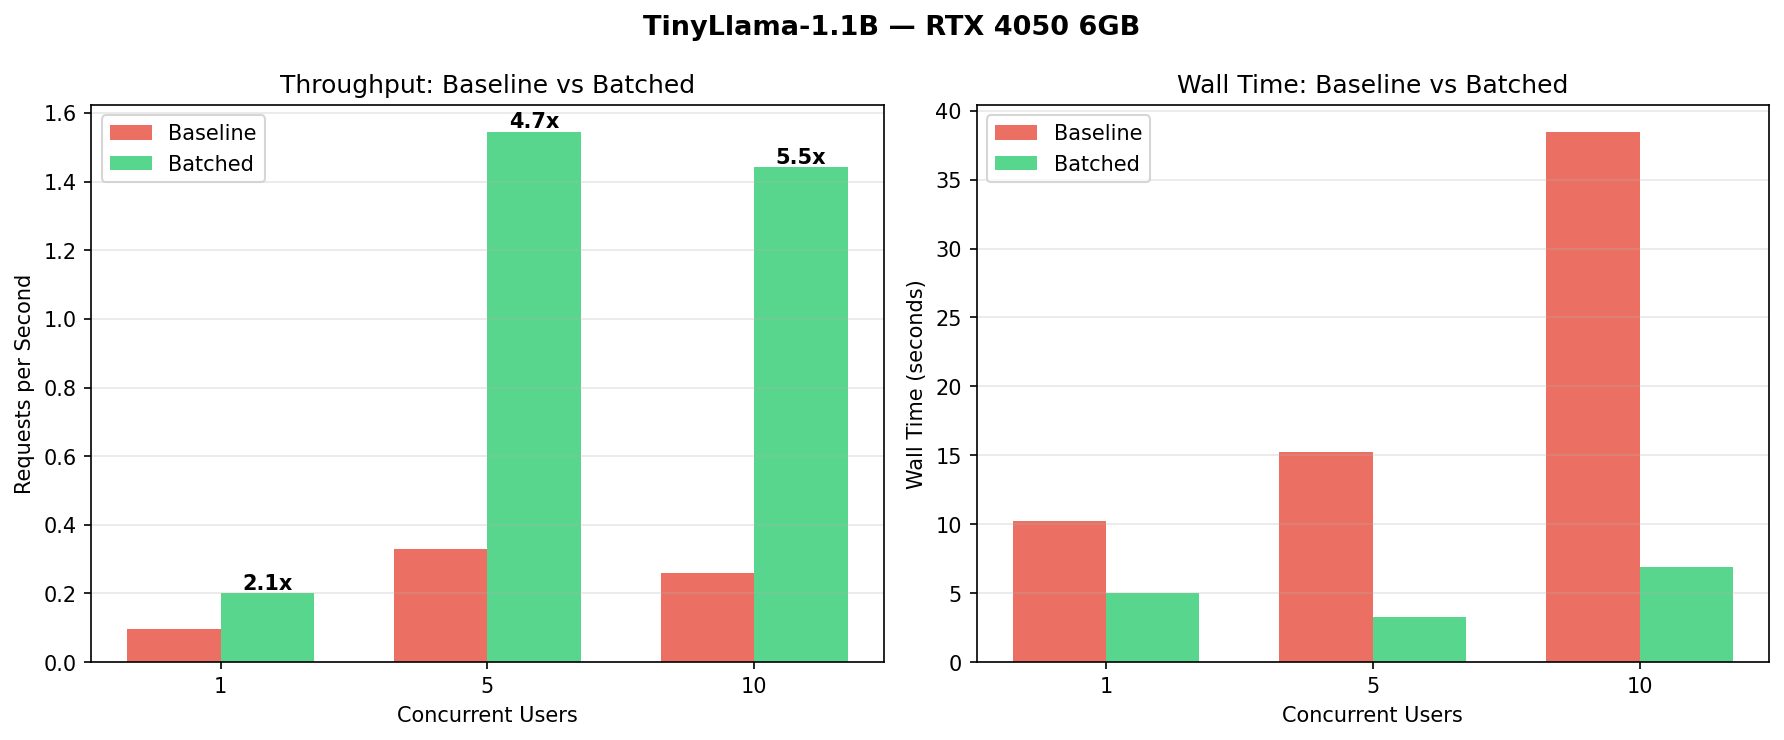
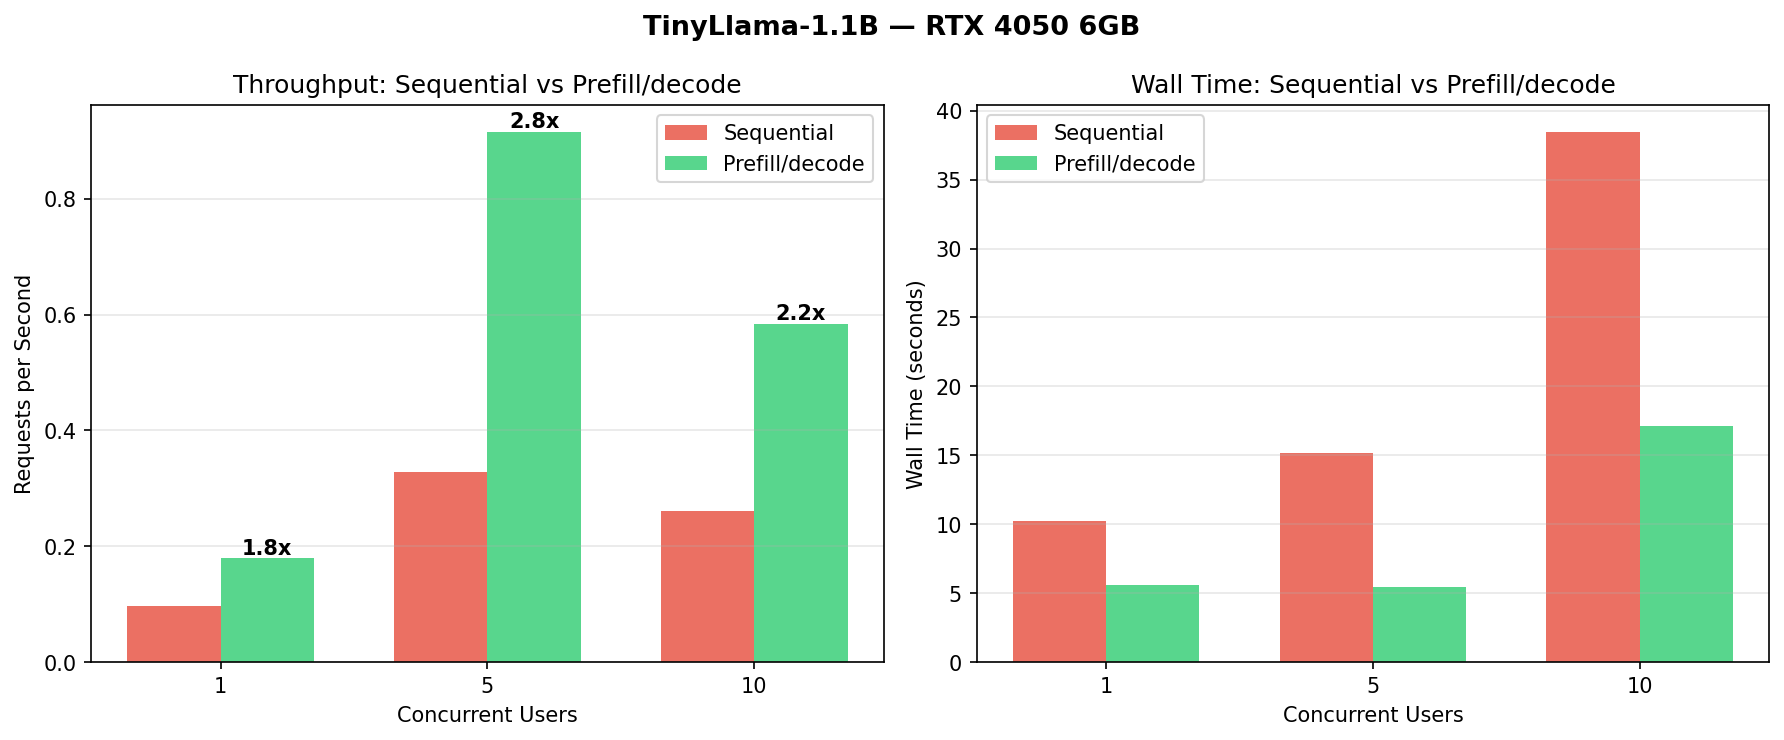
Baseline Image

diff --git a/benchmarks/plot_benchmarks.py b/benchmarks/plot_benchmarks.py
@@ -2,11 +2,14 @@ from pathlib import Path
 import matplotlib.pyplot as plt
 import numpy as np
 
+# Sequential baseline (2026-04-20) vs prefill/decode (2026-10-03).
+# Both columns are in benchmarks/baseline.md. The old window-batch
+# bars (2.1x / 4.7x / 5.5x, wall 6.93s) are a different run.
 users = [1, 5, 10]
 baseline_rps = [0.097, 0.329, 0.260]
-batched_rps  = [0.201, 1.546, 1.442]
-baseline_wall = [10.26, 15.22, 38.49]
-batched_wall  = [4.99,  3.24,  6.93]
+batched_rps  = [0.179, 0.916, 0.584]
+baseline_wall = [10.262, 15.20, 38.49]
+batched_wall  = [5.587, 5.456, 17.128]
 
 fig, (ax1, ax2) = plt.subplots(1, 2, figsize=(12, 5))
 
@@ -14,11 +17,11 @@ x = np.arange(len(users))
 width = 0.35
 
 # RPS chart
-ax1.bar(x - width/2, baseline_rps, width, label='Baseline', color='#e74c3c', alpha=0.8)
-ax1.bar(x + width/2, batched_rps,  width, label='Batched',  color='#2ecc71', alpha=0.8)
+ax1.bar(x - width/2, baseline_rps, width, label='Sequential', color='#e74c3c', alpha=0.8)
+ax1.bar(x + width/2, batched_rps,  width, label='Prefill/decode',  color='#2ecc71', alpha=0.8)
 ax1.set_xlabel('Concurrent Users')
 ax1.set_ylabel('Requests per Second')
-ax1.set_title('Throughput: Baseline vs Batched')
+ax1.set_title('Throughput: Sequential vs Prefill/decode')
 ax1.set_xticks(x)
 ax1.set_xticklabels(users)
 ax1.legend()
@@ -29,11 +32,11 @@ for i, (b, a) in enumerate(zip(baseline_rps, batched_rps)):
                  ha='center', va='bottom', fontweight='bold', fontsize=10)
 
 # Wall time chart
-ax2.bar(x - width/2, baseline_wall, width, label='Baseline', color='#e74c3c', alpha=0.8)
-ax2.bar(x + width/2, batched_wall,  width, label='Batched',  color='#2ecc71', alpha=0.8)
+ax2.bar(x - width/2, baseline_wall, width, label='Sequential', color='#e74c3c', alpha=0.8)
+ax2.bar(x + width/2, batched_wall,  width, label='Prefill/decode',  color='#2ecc71', alpha=0.8)
 ax2.set_xlabel('Concurrent Users')
 ax2.set_ylabel('Wall Time (seconds)')
-ax2.set_title('Wall Time: Baseline vs Batched')
+ax2.set_title('Wall Time: Sequential vs Prefill/decode')
 ax2.set_xticks(x)
 ax2.set_xticklabels(users)
 ax2.legend()
